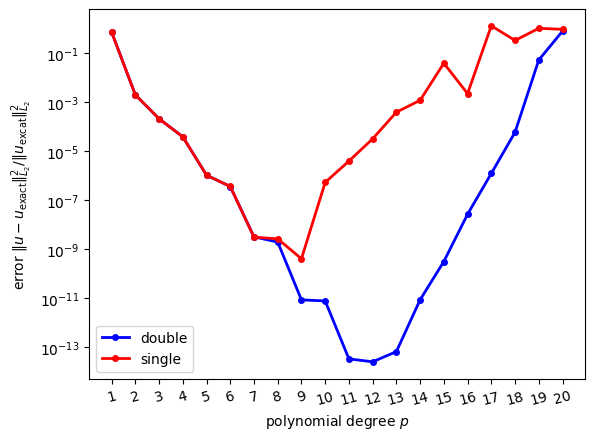
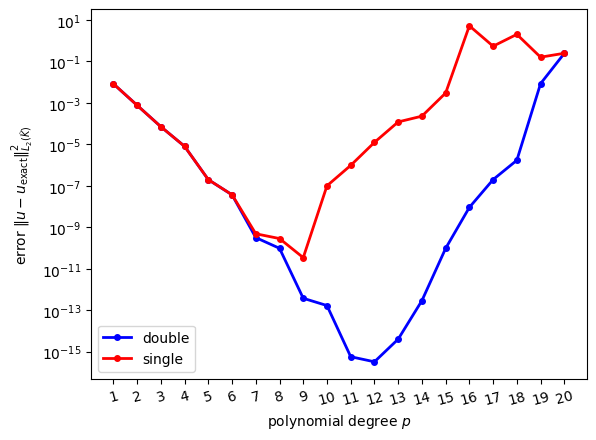
Updated results

diff --git a/lectures/ErrorAnalysis.md b/lectures/ErrorAnalysis.md
@@ -15,7 +15,7 @@ Since a computer can only perform inexact arithmetic for real numbers, the resul
 Obviously, it is crucial to minimise the total error, which is made up of the three components above. Modelling errors are discussed elsewhere and beyond the scope of this course, in which we will concentrate on the PDE $-\kappa \Delta u + \omega u = f$. A detailled analysis of finite element discretisation errors is presented in the course on "Numerical solution of elliptic PDEs". In the following we focus on rounding errors.
 
 ## Results from numerical experiment
-As a motivation, consider the solution of our model equation $-\kappa \Delta u + \omega u = f$ on the reference triangle for $\kappa = 0.9$, $\omega = 0.4$. The boundary conditions and right-hand side were chosen such that the exact solution is given by $u_{\text{exact}}(x) = \exp[-\frac{1}{2\sigma^2}(x-x_0)^2]$ with $\sigma = 0.5$, $x_0 = (0.6, 0.25)$. The following figure shows the relative squared error $\|u-u_{\text{exact}}\|^2_{L_2}/\|u_{\text{exact}}\|^2_{L_2}$ as a function of the polynomial degree $p$:
+As a motivation, consider the solution of our model equation $-\kappa \Delta u + \omega u = f$ on the reference triangle for $\kappa = 0.9$, $\omega = 0.4$. The boundary conditions and right-hand side were chosen such that the exact solution is given by $u_{\text{exact}}(x) = \exp[-\frac{1}{2\sigma^2}(x-x_0)^2]$ with $\sigma = 0.5$, $x_0 = (0.6, 0.25)$. The following figure shows the squared error $\|u_{\text{exact}}-u\|^2_{L_2}$ as a function of the polynomial degree $p$:
 
 ![Relative error](figures/error_reference_triangle.png)
 
